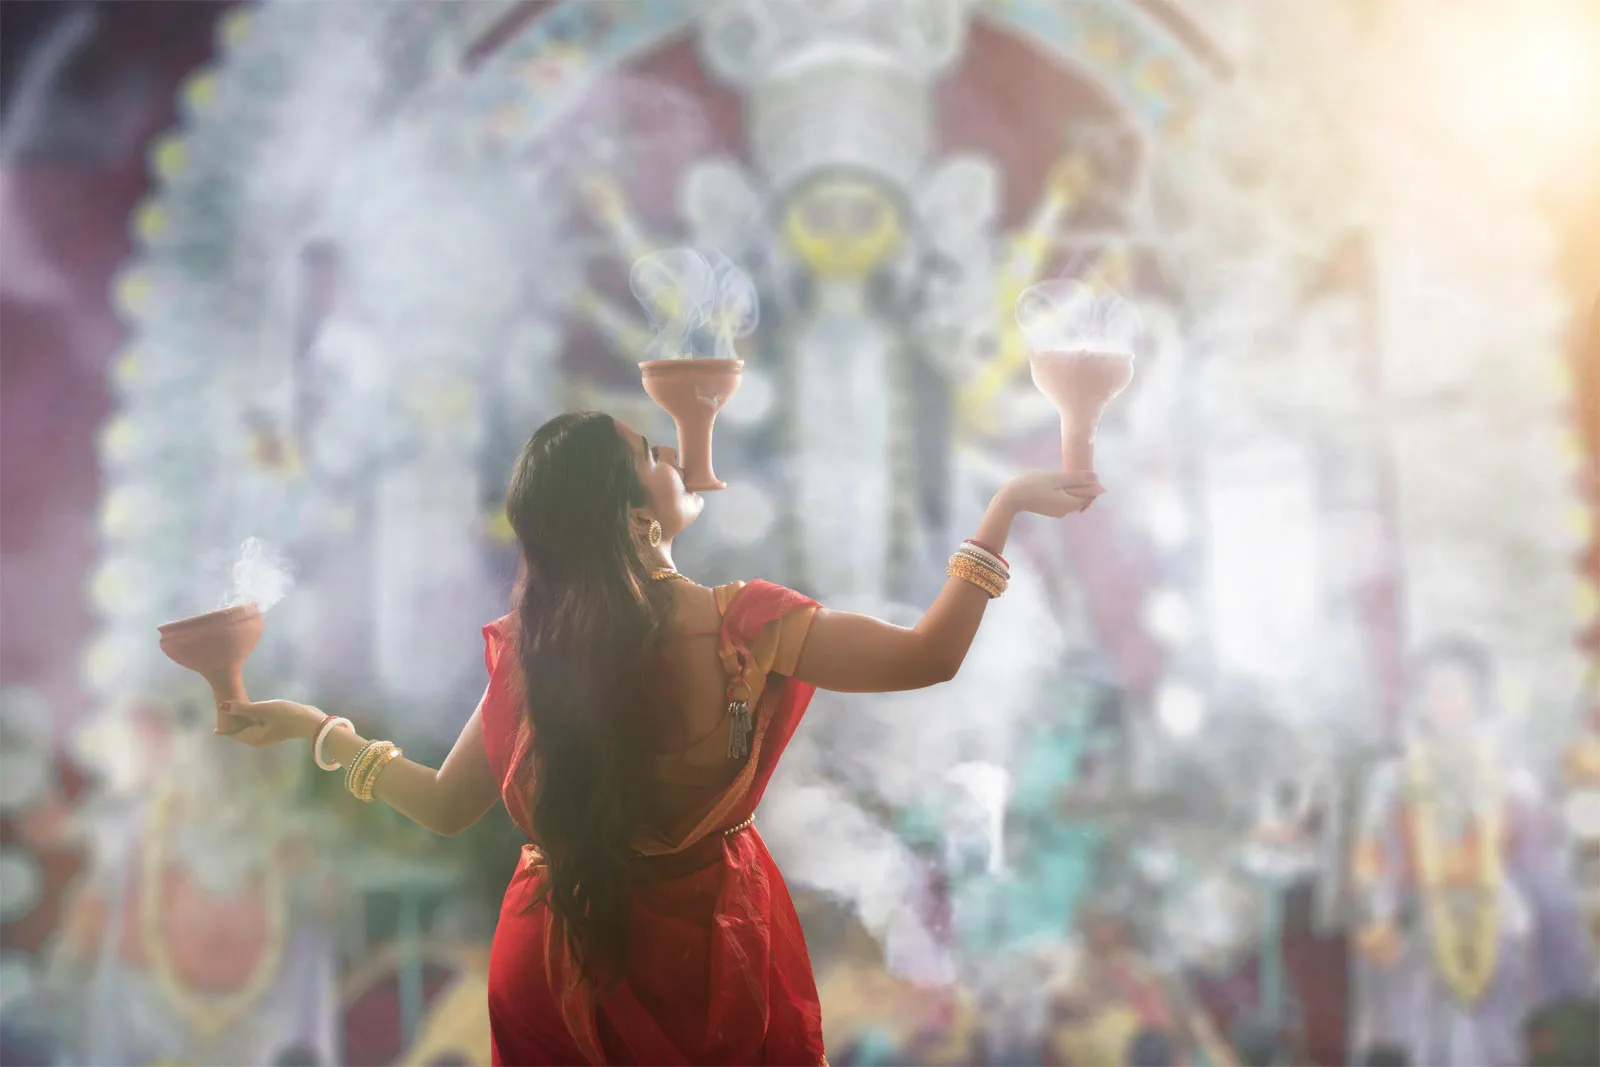
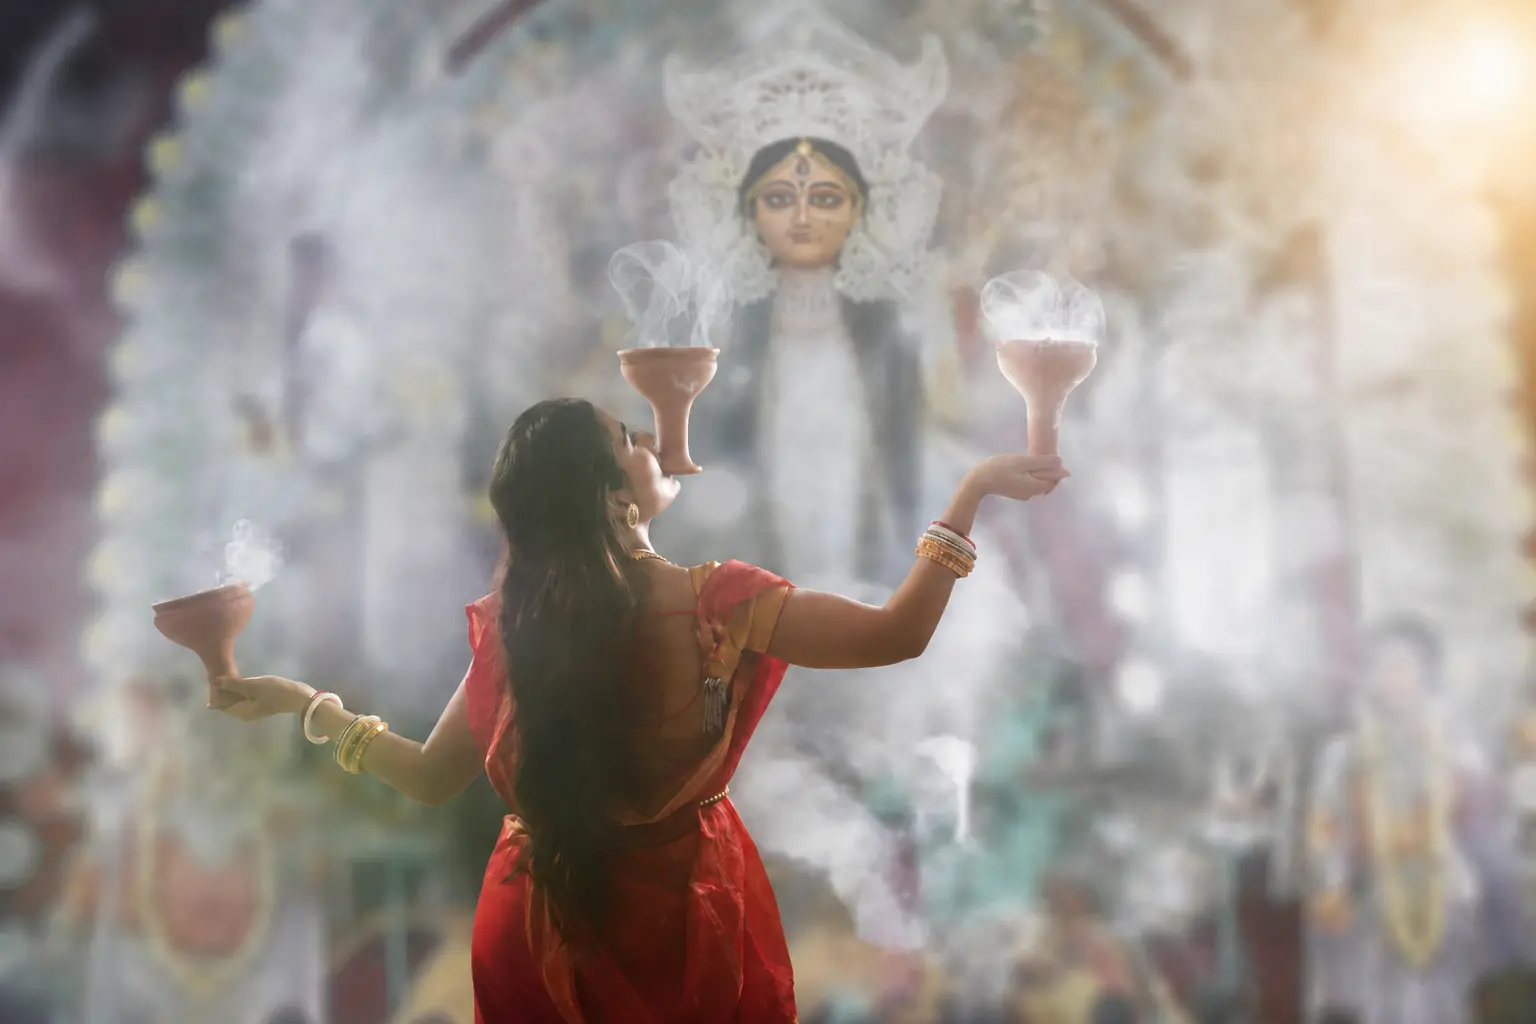
Refresh the hero image (home page and og share image)

diff --git a/web/src/pages/Home.tsx b/web/src/pages/Home.tsx
@@ -20,8 +20,8 @@ export function Home() {
         <img
           src={heroImage}
           alt="Dhunuchi naach before the protima during Durga Pujo"
-          width={1600}
-          height={1067}
+          width={1536}
+          height={1024}
           fetchPriority="high"
           className="w-full rounded-xl border object-cover shadow-sm"
         />
